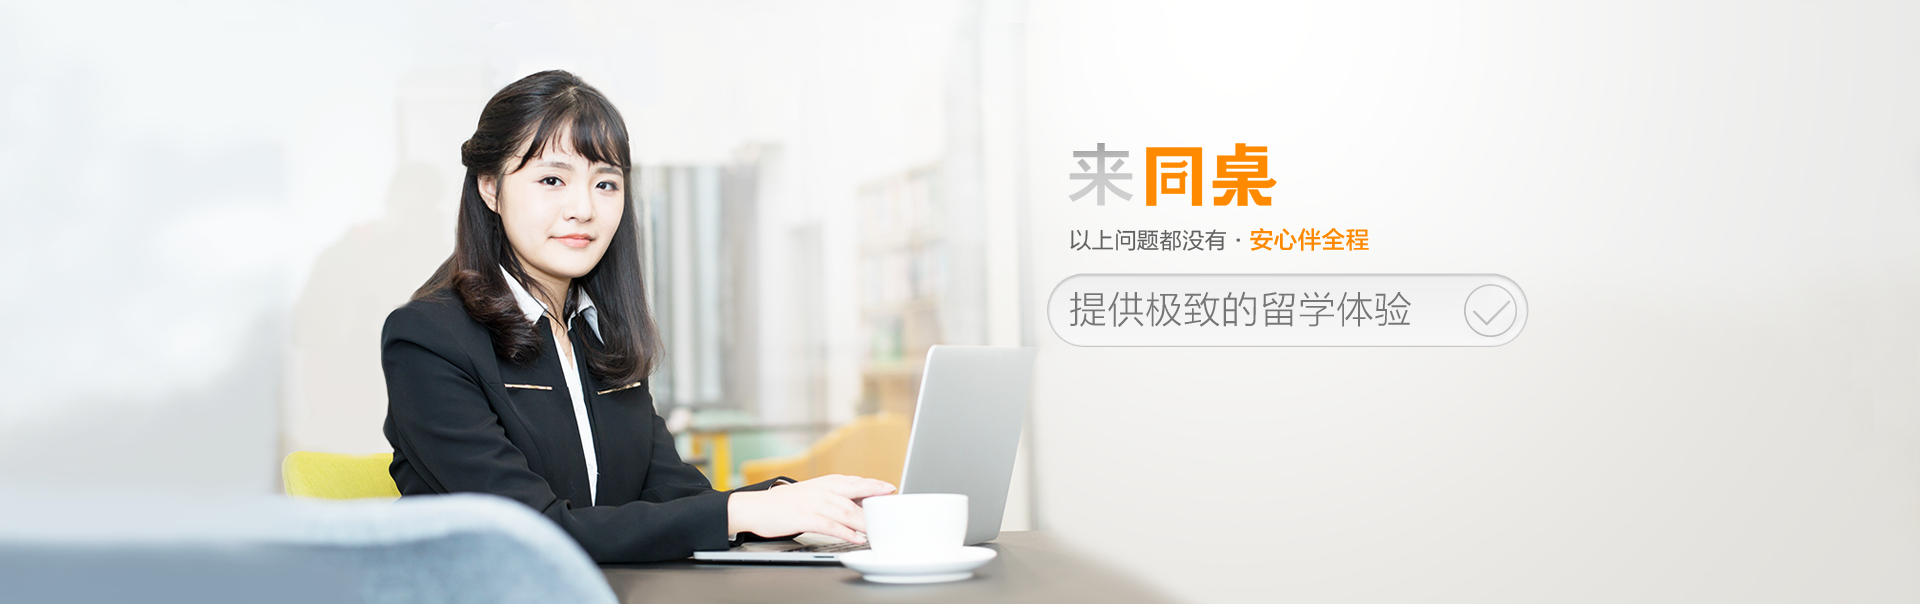
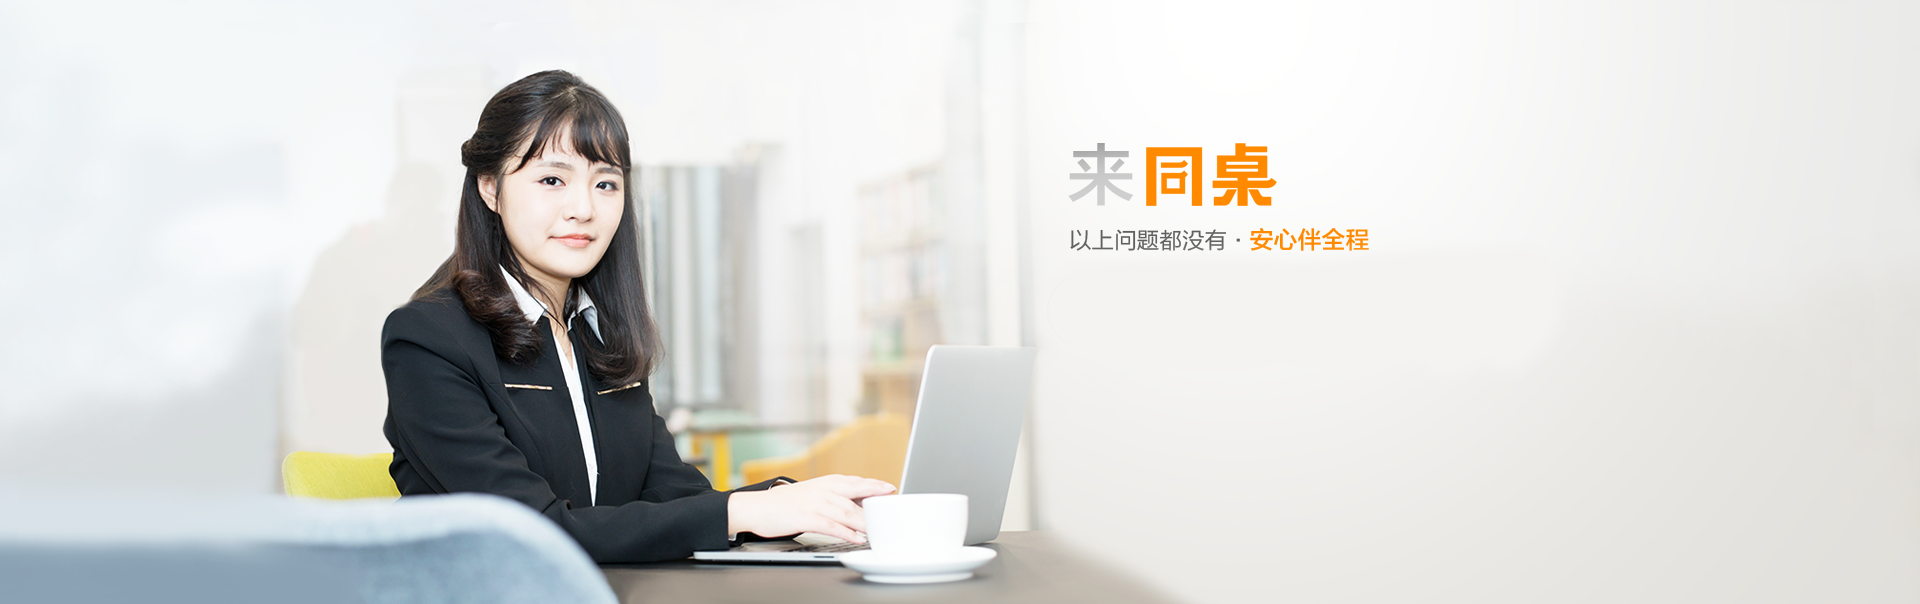
change

Changed region(s): [[0.5625, 0.447, 0.7812, 0.5364]]

diff --git a/o/css/style.css b/o/css/style.css
@@ -2396,9 +2396,31 @@ a:hover{
 	background: url(../imgs/abord-back3.png) center no-repeat;
 	background-size: cover;
 }*/
-/*.abord-back4{
-	background: url(../imgs/abord-back4.png) center no-repeat;
-	background-size: cover;
+.abord-back4{
+	position: relative;
+}
+.abord-back4-button{
+	position: absolute;
+    width: 323px;
+    height: 45px;
+    line-height: 32px;
+    /* background-color: red; */
+    top: 202px;
+    padding: 5px 13px;
+    right: 23%;
+    font-size: 25px;
+    border: 1px solid #D3D3D3;
+    color: #A1A1A1;
+    border-radius: 23px;
+}
+.abord-back4-button a{
+	color: #A1A1A1;
+}
+.abord-back4-check{
+    background: url(../imgs/abord-back4-check.png) no-repeat;
+    padding: 3px 18px;
+    margin-left: 34px;
+    background-size: 35px;
 }
 .abord-back5{
 	background: url(../imgs/abord-back5.png) center no-repeat;
@@ -2407,7 +2429,7 @@ a:hover{
 .abord-back6{
 	background: url(../imgs/abord-back6.png) center no-repeat;
 	background-size: cover;
-}*/
+}
 .abord-back7{
 	background: url(../imgs/back7.png) center no-repeat;
 	background-size: cover;

diff --git a/o/留学.html b/o/留学.html
@@ -89,6 +89,7 @@
     <div class="row-box">
         <div class="abrod-box abord-back4">
         	<img src="./imgs/abord-back4.png" width="100%">
+        	<div class="abord-back4-button"><span><a href="">提供极致的留学体验</span><span class="abord-back4-check"></span></a></div>
         </div>
     </div>
     <div class="row-box">
